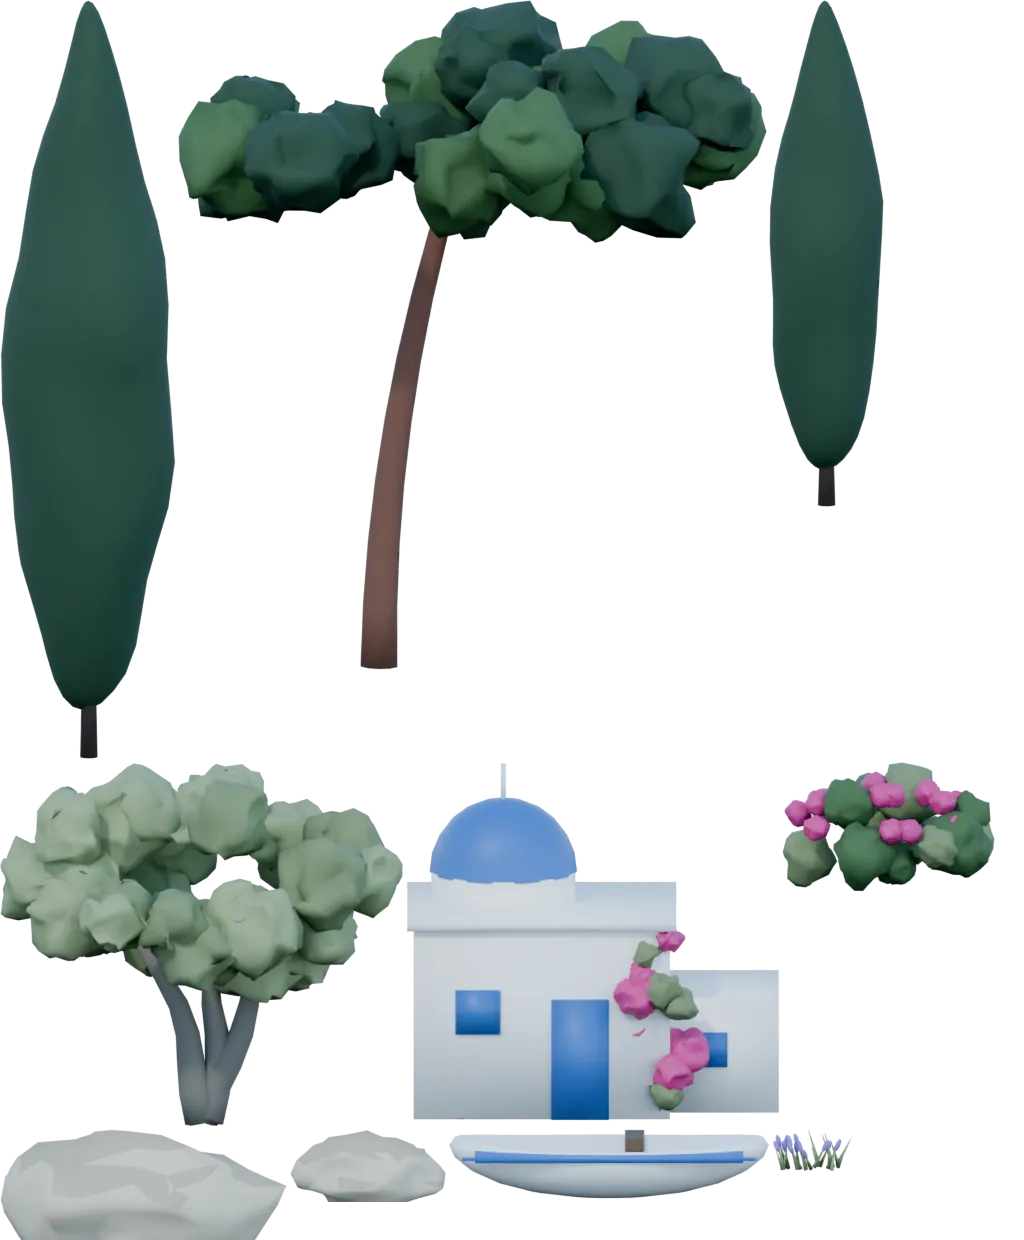
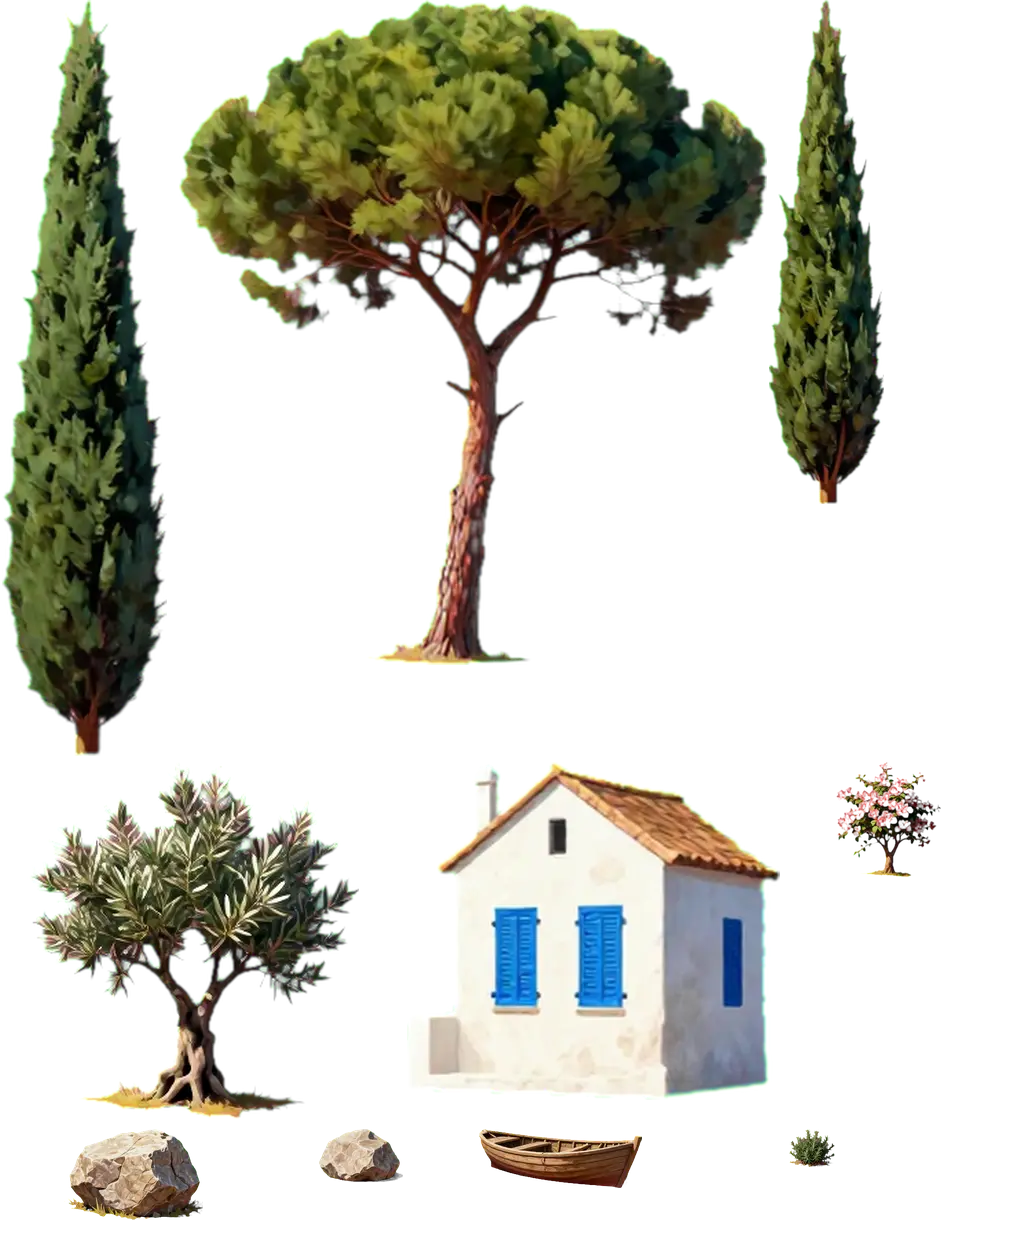
Costa mediterránea pintada con el estilo de los héroes (0.112.1) (#133)
* Fiordo pintado con el estilo de los héroes, con suelo y agua pintados en 3D (0.98.0)

Claude-Session: https://claude.ai/code/session_01YU6HPKNqDAini2Aa6w3kXk

* Laguna tropical pintada con el estilo de los héroes, con arena y agua pintadas en 3D (0.100.0)

Claude-Session: https://claude.ai/code/session_01YU6HPKNqDAini2Aa6w3kXk

* Prueba de temporizador frenado: esperar a que la sesión de los 20 s esté guardada

La escritura de la sesión en curso es asíncrona; con el CI cargado, la de los 20 s llegaba
después de leerla y la prueba comparaba contra la copia de los 10 s.

Claude-Session: https://claude.ai/code/session_01YU6HPKNqDAini2Aa6w3kXk

* Vista aérea 2D con más paisaje: orillas anchas en vertical, agua pintada del fiordo (0.100.1)

Claude-Session: https://claude.ai/code/session_01YU6HPKNqDAini2Aa6w3kXk

* Vista previa de paisajes y piezas del bote en la tienda

Claude-Session: https://claude.ai/code/session_01YU6HPKNqDAini2Aa6w3kXk

* Icono de vista previa sin fondo

Claude-Session: https://claude.ai/code/session_01YU6HPKNqDAini2Aa6w3kXk

* Vista previa en un módulo que se carga al tocarla: la primera carga vuelve a quedar bajo 380 KB de JS

Claude-Session: https://claude.ai/code/session_01YU6HPKNqDAini2Aa6w3kXk

* Cañón del desierto pintado con el estilo de los héroes, con tierra roja y agua pintadas

Claude-Session: https://claude.ai/code/session_01YU6HPKNqDAini2Aa6w3kXk

* Herramientas: procesar.py (clave magenta por croma) y puntos del cañón
[…]

diff --git a/src/carrera.js b/src/carrera.js
@@ -260,6 +260,7 @@ Object.assign(PAISAJES, {
     nombre: 'Costa mediterránea',
     texto: 'Acantilados de caliza, cipreses, olivos y casitas blancas.',
     precio: 2700,
+    pintado: true,
     orilla: {
       piezas: {
         cipres_alto: { x: 0, y: 0, w: 176, h: 760, pie: [0.5, 0.996], m: 11.88 },
@@ -271,20 +272,20 @@ Object.assign(PAISAJES, {
         roca_grande: { x: 0, y: 1129, w: 287, h: 111, pie: [0.5, 0.822], m: 1.73 },
         roca: { x: 289, y: 1129, w: 157, h: 73, pie: [0.503, 0.729], m: 1.14 },
         barca: { x: 448, y: 1129, w: 322, h: 70, pie: [0.5, 0.844], m: 1.09 },
-        lavanda: { x: 772, y: 1129, w: 80, h: 42, pie: [0.506, 0.915], m: 0.65 }
+        romero: { x: 772, y: 1129, w: 80, h: 42, pie: [0.506, 0.915], m: 0.65 }
       },
       elegir: (r1, r2) => (r1 < 0.08 ? 'roca' : r1 < 0.12 ? 'roca_grande' : r1 < 0.17 && r2 < 0.5 ? 'casa'
         : r1 < 0.21 && r2 < 0.5 ? 'barca' : r1 < 0.36 ? (r2 < 0.5 ? 'buganvilla' : 'olivo')
           : r2 < 0.35 ? 'cipres_alto' : r2 < 0.6 ? 'cipres' : r2 < 0.8 ? 'olivo' : 'pinonero'),
       fondo: (r2) => (r2 > 0.7 ? 'pinonero' : r2 > 0.45 ? 'cipres_alto' : 'olivo'),
       apartar: { casa: 4, barca: -1 },
-      borde: 'lavanda',
+      borde: 'romero',
       // Los piñoneros se inclinan hacia +x: en la orilla derecha se espejan siempre
       espejo: (s) => s > 0
     },
     colores: {
-      tierra2d: '#8A8A55', agua2d: ['#1E6FB0', '#0F4E8A'], cielo3d: ['#8FB6E6', '#D6E3F0'], agua3d: ['#2E6FA8', '#0B3E6E'],
-      reflejo: '180,210,240', arena3d: '#E0D2B0', tierra3d: '#7A7A4A', bruma: 240
+      tierra2d: '#8F7A44', agua2d: ['#1C6496', '#0E4470'], cielo3d: ['#8FB6E6', '#D6E3F0'], agua3d: ['#2E6FA8', '#0B3E6E'],
+      reflejo: '180,210,240', arena3d: '#D8CCB0', tierra3d: '#9A8550', bruma: 240
     }
   }),
 });
@@ -1949,6 +1950,8 @@ function pintar3d(c, { ctx, ancho, alto }, { botes, t, ritmo, referencias = [], 
   ctx.textAlign = 'left';
   let ultimaEtq = Infinity;
   const marcas = [];
+  // Los flotadores de todas las filas se juntan en dos trazos (claro y oscuro) y se rellenan una vez cada uno.
+  const flot = [];
   for (let m = Math.ceil(camZ / paso) * paso; m < camZ + alcance; m += paso) {
     if (m < 0) continue;
     const a = P(minX - 2, m);
@@ -1958,8 +1961,7 @@ function pintar3d(c, { ctx, ancho, alto }, { botes, t, ritmo, referencias = [], 
     const nf = Math.max(6, Math.min(28, Math.round((b.x - a.x) / Math.max(5, a.s * 0.18))));
     const rf = Math.max(0.8, a.s * 0.028);
     for (let i = 0; i <= nf; i++) {
-      ctx.fillStyle = i % 2 ? 'rgba(15,23,42,0.45)' : 'rgba(255,255,255,0.55)';
-      ctx.fillRect(a.x + ((b.x - a.x) * i) / nf - rf, a.y + ((b.y - a.y) * i) / nf - rf * 0.6, rf * 2, rf * 1.2);
+      flot.push(a.x + ((b.x - a.x) * i) / nf - rf, a.y + ((b.y - a.y) * i) / nf - rf * 0.6, rf * 2, rf * 1.2, i % 2);
     }
     // Etiquetas solo mientras no se amontonan cerca del horizonte; van en una estaca de la orilla derecha.
     if (ultimaEtq - b.y >= 16 && b.x + 50 < ancho) {
@@ -1967,6 +1969,12 @@ function pintar3d(c, { ctx, ancho, alto }, { botes, t, ritmo, referencias = [], 
       marcas.push({ txt: `${m} m`, x: b.x + 6, y: (poste ? poste.y : b.y) + 4, pie: b, poste });
       ultimaEtq = b.y;
     }
+  }
+  for (const [osc, color] of [[0, 'rgba(255,255,255,0.55)'], [1, 'rgba(15,23,42,0.45)']]) {
+    ctx.fillStyle = color;
+    ctx.beginPath();
+    for (let j = 0; j < flot.length; j += 5) if (flot[j + 4] === osc) ctx.rect(flot[j], flot[j + 1], flot[j + 2], flot[j + 3]);
+    ctx.fill();
   }
   const meta = c.estado.meta;
   if (meta != null && meta - camZ < alcance && meta > camZ) {

diff --git a/src/version.js b/src/version.js
@@ -1,2 +1,2 @@
 // Versión de la app: la misma que la caché del service worker (sw.js). Súbela al publicar cambios.
-export const VERSION = '0.112.0';
+export const VERSION = '0.112.1';

diff --git a/tools/paisaje-pintado/procesar.py b/tools/paisaje-pintado/procesar.py
@@ -11,7 +11,7 @@ MAPA={'laguna':'palmera_alta A0 palmera_curva A1 palmera_baja A2 fare A3 arbusto
 'otono':'pino A0 arce_rojo A1 arce_naranja A2 abedul A3 cabana A4 roca_grande A5 roca B0 helechos B1 canoa B2',
 'cerezos':'cerezo A0 pino A1 bambu A2 torii A3 cerezo_chico A4 linterna A5 roca_grande B0 roca B1 iris B2',
 'glaciar':'tempano_alto A0 abeto A1 abeto_bajo A2 tempano A3 iglu A4 roca_grande A5 roca B0 pinguinos B1 hielo B2',
-'mediterraneo':'cipres_alto A0 pinonero A1 cipres A2 olivo A3 casa A4 buganvilla A5 roca_grande B0 roca B1 barca B2 lavanda B3'}[k].split()
+'mediterraneo':'cipres_alto A0 pinonero A1 cipres A2 olivo A3 casa A4 buganvilla A5 roca_grande B0 roca B1 barca B2 romero B5'}[k].split()
 MAPA=dict(zip(MAPA[::2],MAPA[1::2]))
 REJ={0:(128,260),1:(384,260),2:(640,260),3:(128,640),4:(384,640),5:(640,640)}
 PUNTOS={n:(v[0],)+REJ[int(v[1])] for n,v in MAPA.items()}
@@ -42,7 +42,7 @@ ci=Image.fromarray(sin_costura_h(c,120).astype(np.uint8)); ci.resize((1536,round
 # piezas
 RGBA={}
 # Hojas cuyo fondo se parece a las piezas (cerezos rosas sobre fondo rosa): el fondo se toma por relleno desde el borde.
-RELLENO={('cerezos','A')}
+RELLENO={('cerezos','A'),('mediterraneo','A')}
 def objetos(path, hoja=''):
   im=np.asarray(Image.open(path).convert('RGB')).astype(np.float32)
   bg=np.median(np.concatenate([im[:8].reshape(-1,3),im[-8:].reshape(-1,3),im[:,:8].reshape(-1,3),im[:,-8:].reshape(-1,3)]),axis=0)

diff --git a/CHANGELOG.md b/CHANGELOG.md
@@ -2,6 +2,15 @@
 
 Lo que cambia en cada versión de Rower. La versión de la app vive en `src/version.js`; esta lista empieza siempre por esa versión (lo comprueba `pruebas/version.test.mjs`).
 
+## 0.112.1 · 2026-11-23
+
+La Costa mediterránea, repintada con el estilo de los héroes.
+
+- **Costa pintada.** Acantilados de caliza con casitas blancas al fondo y mar azul; cipreses, piñonero, olivo, casa encalada, buganvilla, rocas, barca y romero pintados con el mismo motor y la misma mano que los retratos.
+- **Pasto seco y mar azul pintados en la vista 3D**, con agua pintada en el canal de la vista 2D y una costa 2D con olivos, cipreses y rocas.
+- Miniatura nueva en la tienda.
+- **Marcas de metros más ligeras en 3D.** Los flotadores de todas las filas se pintan de una vez, así la vista 3D gasta menos en cada cuadro.
+
 ## 0.112.0 · 2026-11-23
 
 Accesibilidad que se nota en el teléfono.
